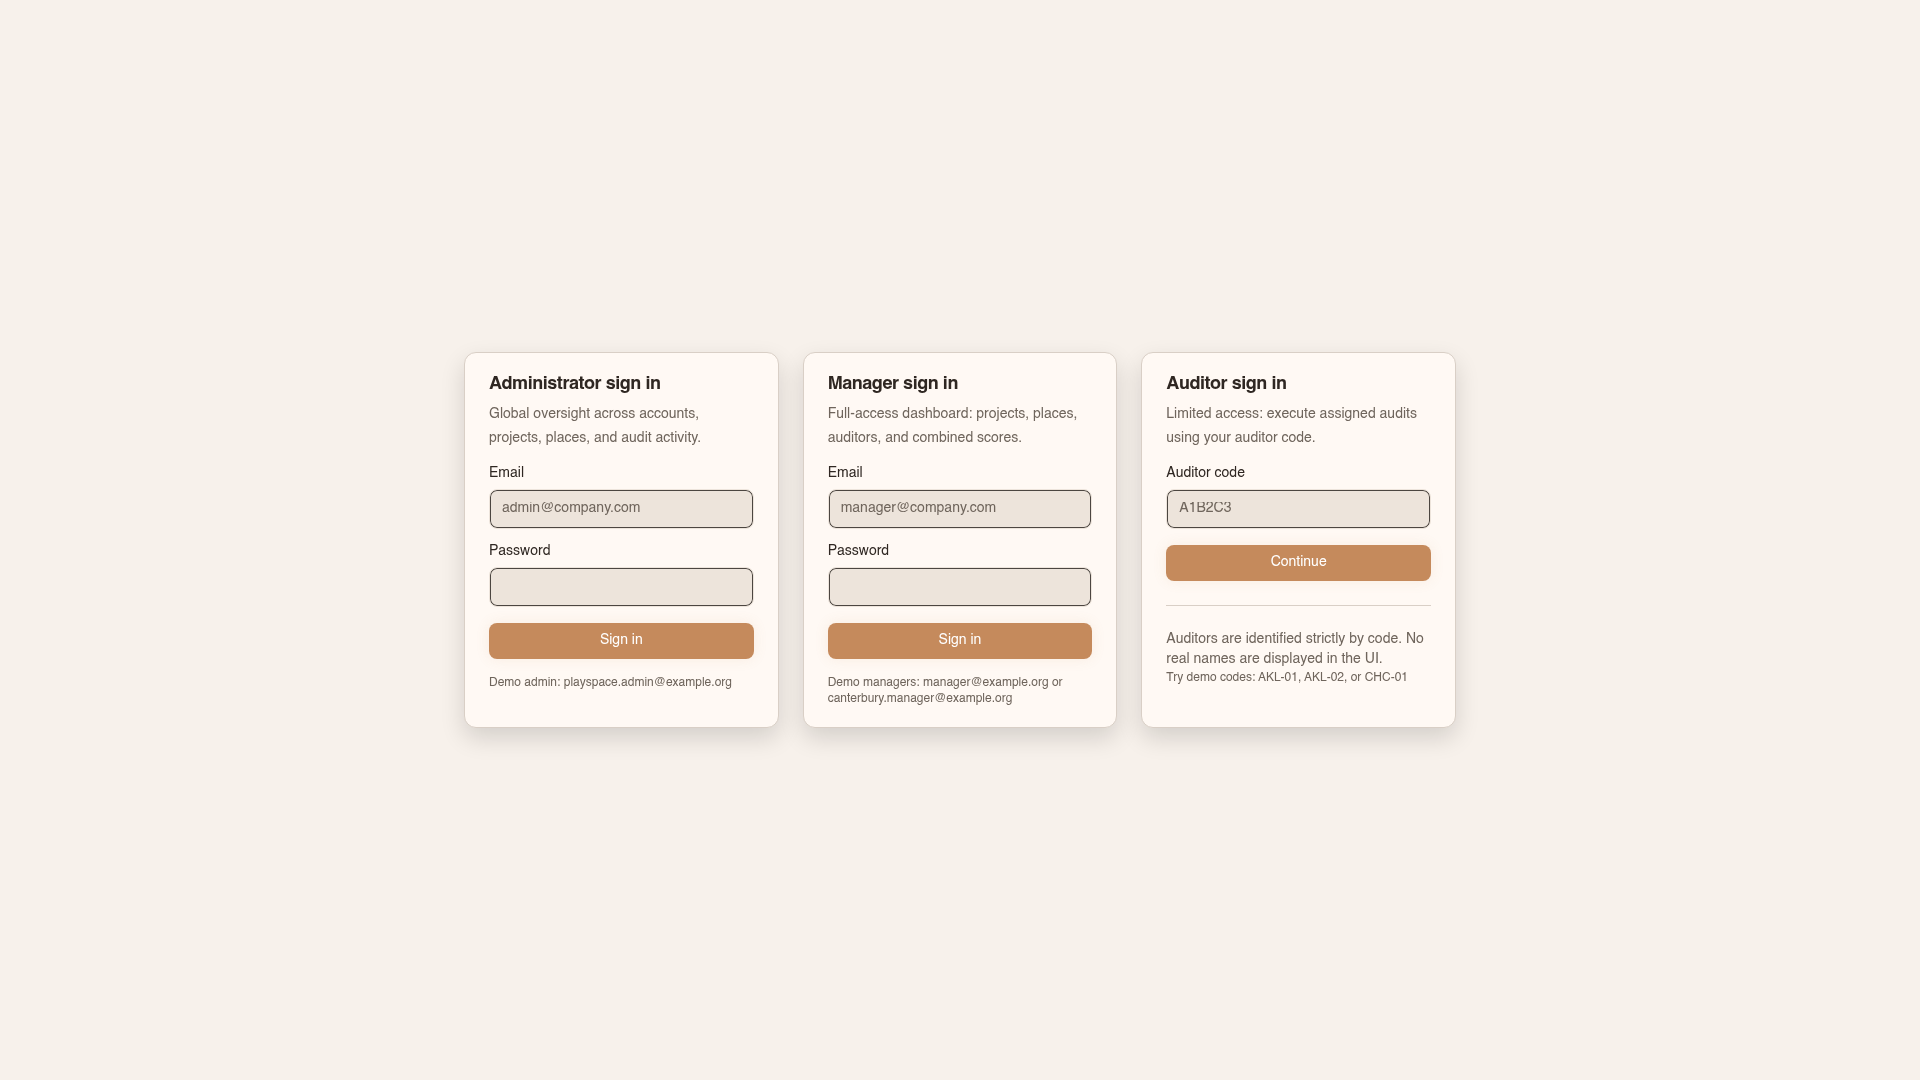
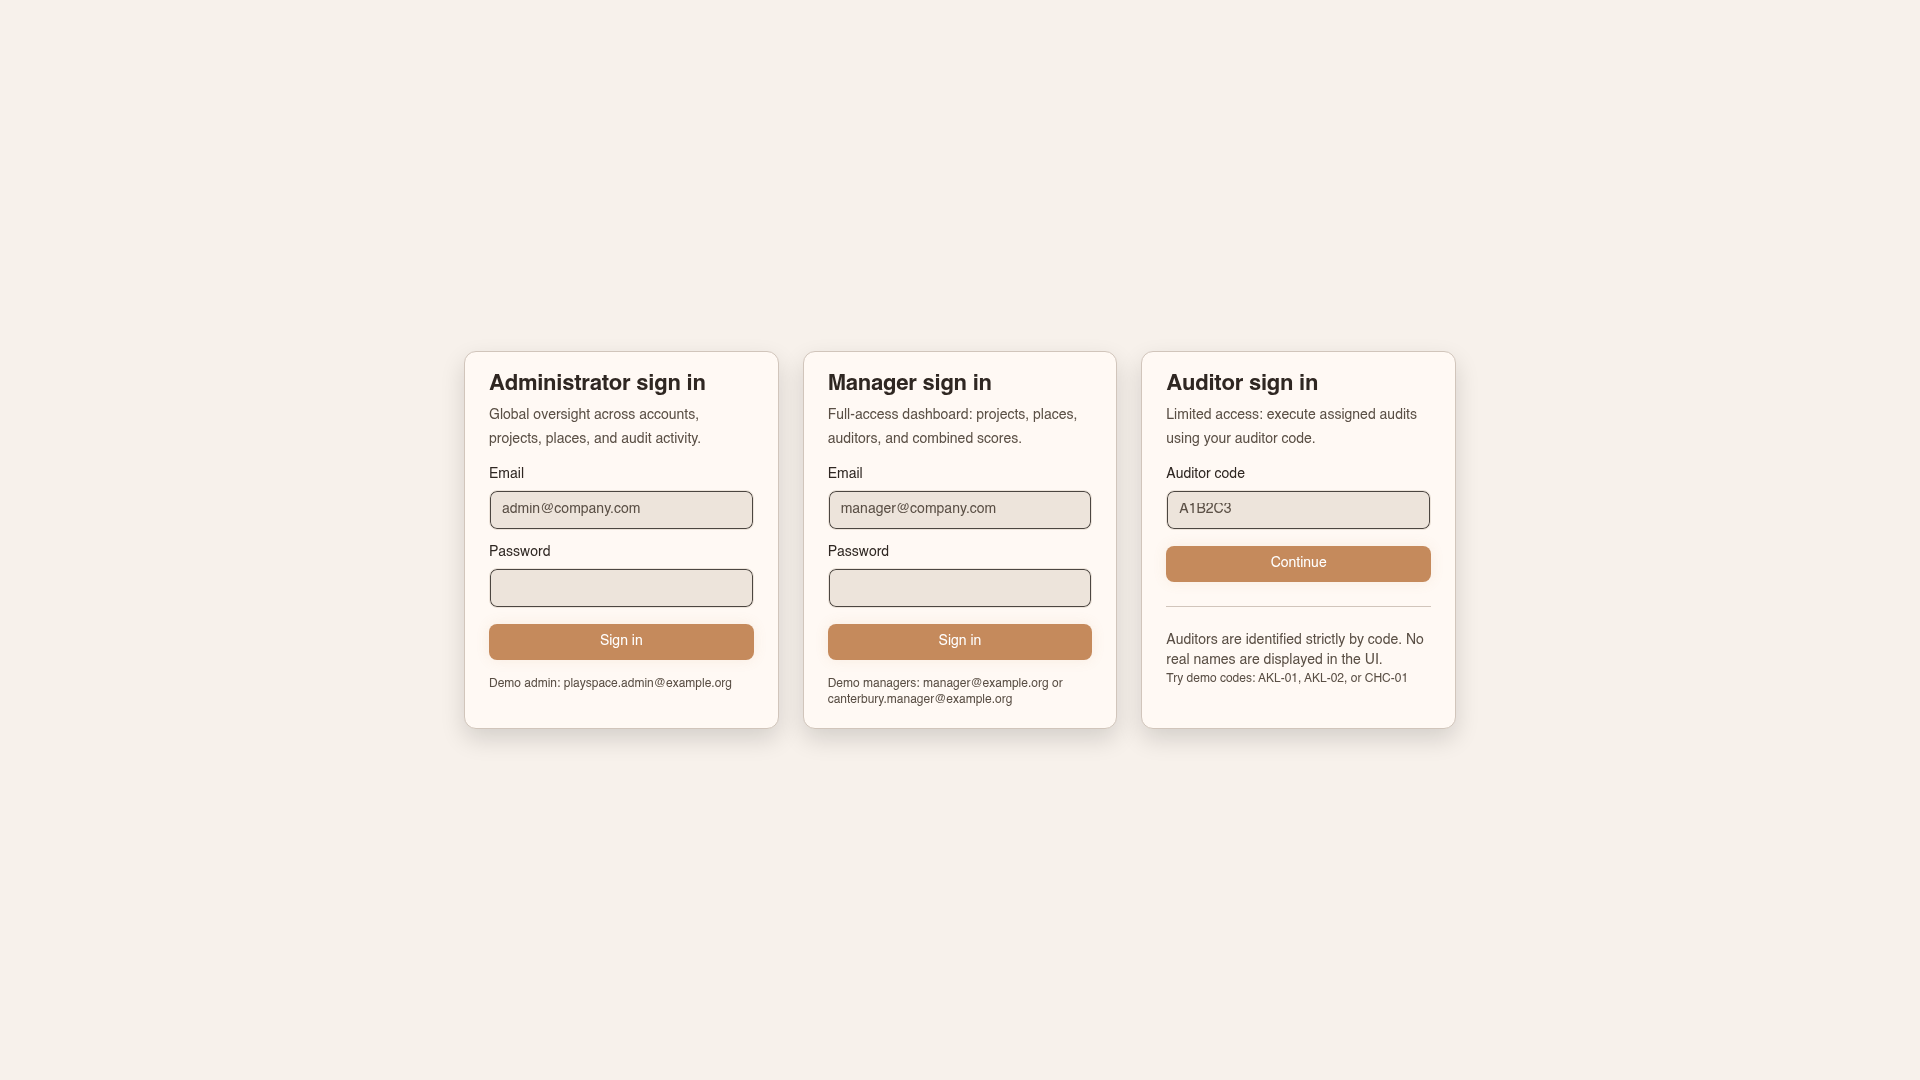
login loading state + screenshots updated

diff --git a/src/app/(public)/login/login-form.tsx b/src/app/(public)/login/login-form.tsx
@@ -32,6 +32,8 @@ interface AuditorLoginValues {
 	auditorCode: string;
 }
 
+type FormSubmitHandler = NonNullable<React.ComponentProps<"form">["onSubmit"]>;
+
 function isSafeInternalPath(value: string): boolean {
 	return value.startsWith("/") && !value.startsWith("//");
 }
@@ -65,9 +67,30 @@ export interface LoginFormProps {
 	nextParam: string | null;
 }
 
+interface PendingButtonLabelProps {
+	label: string;
+}
+
+/**
+ * Renders the compact loading treatment for the active submit button.
+ */
+function PendingButtonLabel({ label }: Readonly<PendingButtonLabelProps>) {
+	return (
+		<>
+			<span
+				aria-hidden="true"
+				className="size-4 animate-spin rounded-full border-2 border-current border-r-transparent"
+			/>
+			<span>{label}</span>
+		</>
+	);
+}
+
 export function LoginForm({ nextParam }: Readonly<LoginFormProps>) {
 	const router = useRouter();
 	const t = useTranslations("login");
+	const [isNavigating, startNavigation] = React.useTransition();
+	const [activeLoginRole, setActiveLoginRole] = React.useState<UserRole | null>(null);
 	const [adminValues, setAdminValues] = React.useState<AdminLoginValues>({
 		email: "",
 		password: ""
@@ -91,7 +114,25 @@ export function LoginForm({ nextParam }: Readonly<LoginFormProps>) {
 		});
 	}, [t]);
 
-	const handleAdminSubmit: React.FormEventHandler<HTMLFormElement> = event => {
+	const isAdminPending = isNavigating && activeLoginRole === "admin";
+	const isManagerPending = isNavigating && activeLoginRole === "manager";
+	const isAuditorPending = isNavigating && activeLoginRole === "auditor";
+
+	/**
+	 * Preserves the active submit button while the post-login route transition begins.
+	 */
+	const startRedirectAfterLogin = React.useCallback(
+		(role: UserRole) => {
+			const redirectPath = getRedirectAfterLogin(role, nextParam);
+			setActiveLoginRole(role);
+			startNavigation(() => {
+				router.push(redirectPath);
+			});
+		},
+		[nextParam, router, startNavigation]
+	);
+
+	const handleAdminSubmit: FormSubmitHandler = event => {
 		event.preventDefault();
 
 		const parsedValues = adminLoginSchema.safeParse(adminValues);
@@ -116,12 +157,10 @@ export function LoginForm({ nextParam }: Readonly<LoginFormProps>) {
 			accessToken: createDemoAccessToken(),
 			accountId: resolveAdminAccountId()
 		});
-
-		const redirectPath = getRedirectAfterLogin("admin", nextParam);
-		router.push(redirectPath);
+		startRedirectAfterLogin("admin");
 	};
 
-	const handleManagerSubmit: React.FormEventHandler<HTMLFormElement> = event => {
+	const handleManagerSubmit: FormSubmitHandler = event => {
 		event.preventDefault();
 
 		const parsedValues = managerLoginSchema.safeParse(managerValues);
@@ -147,12 +186,10 @@ export function LoginForm({ nextParam }: Readonly<LoginFormProps>) {
 			accessToken: createDemoAccessToken(),
 			accountId: resolveManagerAccountId(parsedValues.data.email)
 		});
-
-		const redirectPath = getRedirectAfterLogin("manager", nextParam);
-		router.push(redirectPath);
+		startRedirectAfterLogin("manager");
 	};
 
-	const handleAuditorSubmit: React.FormEventHandler<HTMLFormElement> = event => {
+	const handleAuditorSubmit: FormSubmitHandler = event => {
 		event.preventDefault();
 
 		const parsedValues = auditorLoginSchema.safeParse(auditorValues);
@@ -170,9 +207,7 @@ export function LoginForm({ nextParam }: Readonly<LoginFormProps>) {
 			accessToken: createDemoAccessToken(),
 			auditorCode: parsedValues.data.auditorCode
 		});
-
-		const redirectPath = getRedirectAfterLogin("auditor", nextParam);
-		router.push(redirectPath);
+		startRedirectAfterLogin("auditor");
 	};
 
 	return (
@@ -235,7 +270,13 @@ export function LoginForm({ nextParam }: Readonly<LoginFormProps>) {
 									) : null}
 								</div>
 
-								<Button type="submit">{t("actions.signIn")}</Button>
+								<Button type="submit" disabled={isNavigating} aria-busy={isAdminPending}>
+									{isAdminPending ? (
+										<PendingButtonLabel label={t("actions.signingIn")} />
+									) : (
+										t("actions.signIn")
+									)}
+								</Button>
 								<p className="text-xs text-muted-foreground">
 									{t("admin.demoLabel")}{" "}
 									<span className="font-mono">playspace.admin@example.org</span>
@@ -300,7 +341,13 @@ export function LoginForm({ nextParam }: Readonly<LoginFormProps>) {
 									) : null}
 								</div>
 
-								<Button type="submit">{t("actions.signIn")}</Button>
+								<Button type="submit" disabled={isNavigating} aria-busy={isManagerPending}>
+									{isManagerPending ? (
+										<PendingButtonLabel label={t("actions.signingIn")} />
+									) : (
+										t("actions.signIn")
+									)}
+								</Button>
 								<p className="text-xs text-muted-foreground">
 									{t("manager.demoLabel")} <span className="font-mono">manager@example.org</span>{" "}
 									{t("manager.demoOr")}{" "}
@@ -335,7 +382,13 @@ export function LoginForm({ nextParam }: Readonly<LoginFormProps>) {
 									) : null}
 								</div>
 
-								<Button type="submit">{t("actions.continue")}</Button>
+								<Button type="submit" disabled={isNavigating} aria-busy={isAuditorPending}>
+									{isAuditorPending ? (
+										<PendingButtonLabel label={t("actions.continuing")} />
+									) : (
+										t("actions.continue")
+									)}
+								</Button>
 							</form>
 
 							<Separator className="my-6" />
